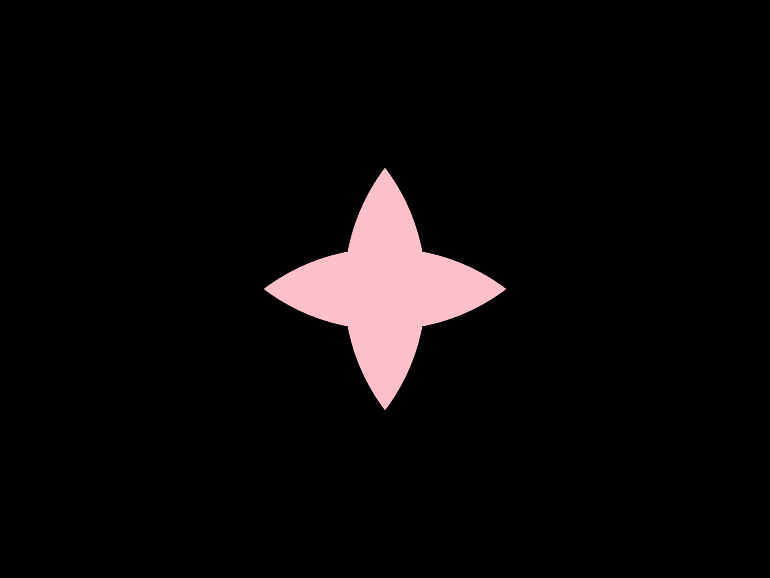
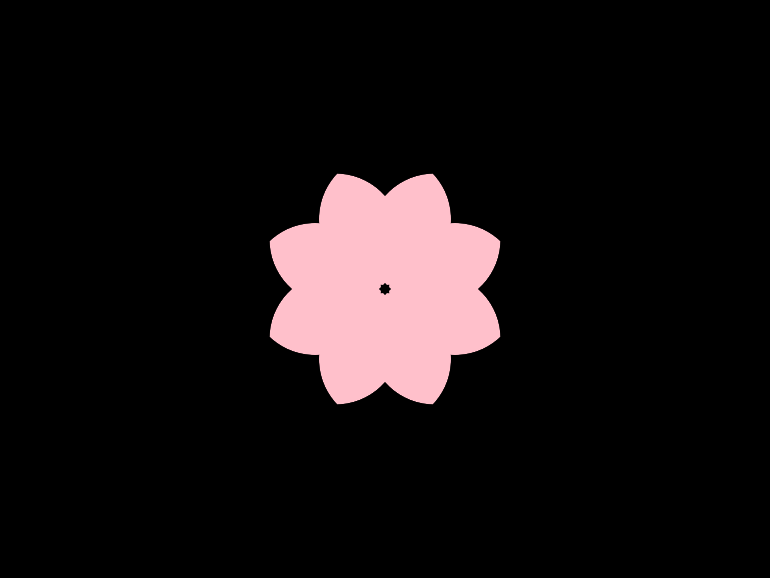
Swap CompoundBuilder examples for CompositionDrawer

Changed region(s): [[0.3429, 0.2803, 0.6545, 0.7163]]

diff --git a/docs/04_Drawing_basics/C05_ComplexShapes.md b/docs/04_Drawing_basics/C05_ComplexShapes.md
@@ -90,7 +90,7 @@ program {
  
  ## Shape Boolean-operations 
  
- Boolean-operations can be performed on shapes using the `compound {}` builder. There are three kinds
+ Boolean-operations can be performed on shapes using the `drawComposition {}` builder. There are three kinds
 of compounds: _union_, _difference_ and _intersection_, all three of them are shown in the example below.
  
  
@@ -99,69 +99,106 @@ of compounds: _union_, _difference_ and _intersection_, all three of them are sh
  ```kotlin
 program {
     extend {
-        drawer.fill = ColorRGBa.PINK
-        drawer.stroke = null
-        // -- shape union
-        val su = compound {
-            union {
-                shape(Circle(185.0, height / 2.0 - 80.0, 100.0).shape)
-                shape(Circle(185.0, height / 2.0 + 80.0, 100.0).shape)
-            }
+        val composition = drawComposition {
+            fill = ColorRGBa.PINK
+            stroke = null
+            // -- shape union
+            shape(union(
+                Circle(185.0, height / 2.0 - 80.0, 100.0).shape,
+                Circle(185.0, height / 2.0 + 80.0, 100.0).shape
+            ))
+
+            // -- shape difference
+            shape(difference(
+                Circle(385.0, height / 2.0 - 80.0, 100.0).shape,
+                Circle(385.0, height / 2.0 + 80.0, 100.0).shape
+            ))
+
+            // -- shape intersection
+            shape(intersection(
+                Circle(585.0, height / 2.0 - 80.0, 100.0).shape,
+                Circle(585.0, height / 2.0 + 80.0, 100.0).shape
+            ))
         }
-        drawer.shapes(su)
-        
-        // -- shape difference
-        val sd = compound {
-            difference {
-                shape(Circle(385.0, height / 2.0 - 80.0, 100.0).shape)
-                shape(Circle(385.0, height / 2.0 + 80.0, 100.0).shape)
-            }
-        }
-        drawer.shapes(sd)
-        
-        // -- shape intersection
-        val si = compound {
-            intersection {
-                shape(Circle(585.0, height / 2.0 - 80.0, 100.0).shape)
-                shape(Circle(585.0, height / 2.0 + 80.0, 100.0).shape)
-            }
-        }
-        drawer.shapes(si)
+
+        drawer.composition(composition)
     }
 }
 ``` 
  
  [Link to the full example](https://github.com/openrndr/openrndr-examples/blob/master/src/main/kotlin/examples/04_Drawing_basics/C05_ComplexShapes002.kt) 
  
- The _compound builder_ is actually a bit more clever than what the previous example demonstrated because
-it can actually work with an entire tree of compounds. Demonstrated below is the _union_ of two _intersections_. 
+ The _composition drawer_ is actually a bit more clever than what the previous example demonstrated because
+it can actually work with an entire lists of shapes. Demonstrated below is the _union_ of two _intersections_. 
  
  <img src="media/shapes-004.png"/> 
  
  ```kotlin
 program {
     extend {
-        drawer.fill = ColorRGBa.PINK
-        drawer.stroke = null
-        val cross = compound {
-            union {
-                intersection {
-                    shape(Circle(width / 2.0 - 160.0, height / 2.0, 200.0).shape)
-                    shape(Circle(width / 2.0 + 160.0, height / 2.0, 200.0).shape)
-                }
-                intersection {
-                    shape(Circle(width / 2.0, height / 2.0 - 160.0, 200.0).shape)
-                    shape(Circle(width / 2.0, height / 2.0 + 160.0, 200.0).shape)
-                }
+        val drawingCenter = Vector2(width * 0.5, height * 0.5)
+        val cross = drawComposition {
+            fill = ColorRGBa.PINK
+            stroke = null
+
+            val flower = (0 until 360 step 45).map { degrees ->
+                val center1 = drawingCenter +
+                        Vector2(cos(toRadians(degrees.toDouble())), sin(toRadians(degrees.toDouble()))) * 70.0
+                val center2 = drawingCenter +
+                        Vector2(cos(toRadians(degrees - 45.0)), sin(toRadians(degrees - 45.0))) * 70.0
+                intersection(
+                        Circle(center1, 65.0).shape,
+                        Circle(center2, 65.0).shape
+                )
             }
+            shapes(flower)
         }
-        drawer.shapes(cross)
+
+        drawer.composition(cross)
     }
 }
 ``` 
  
- [Link to the full example](https://github.com/openrndr/openrndr-examples/blob/master/src/main/kotlin/examples/04_Drawing_basics/C05_ComplexShapes003.kt) 
+[Link to the full example](https://github.com/openrndr/openrndr-examples/blob/master/src/main/kotlin/examples/04_Drawing_basics/C05_ComplexShapes003.kt) 
  
+ 
+ `ShapeContour`s can be used in conjunction with `Shape`s to create complex clipping patterns.
+ Demonstrated below is the _intersection_ of multiple `contours` and a `Circle`. 
+  
+<img src="media/shapes-007.png"/> 
+  
+```kotlin
+program {
+    val center = Vector2(width * 0.5, height * 0.5)
+    val circle = Circle(center, 200.0)
+    val sineWaves = drawComposition {
+        val sine = { x: Double, y: Double -> Vector2(x, y + sin(x / 50.0) * 10.0) }
+        stroke = ColorRGBa.PINK
+        strokeWeight = 4.0
+        for (y in -50..height step 20) {
+            val cs = contours {
+                moveTo(sine(0.0, y.toDouble()))
+                for (x in 0..width step 10) {
+                    if (random() < -0.5) {
+                        moveTo(sine(x.toDouble(), cursor.y))
+                    } else {
+                        lineTo(sine(x.toDouble(), cursor.y))
+                    }
+                }
+            }
+            cs.forEach { shape(intersection(it, circle.shape)) }
+        }
+        shape(circle.shape)
+    }
+    extend {
+        drawer.lineCap = LineCap.ROUND
+        drawer.composition(sineWaves)
+    }
+}
+``` 
+  
+[Link to the full example](https://github.com/openrndr/openrndr-examples/blob/master/src/main/kotlin/examples/04_Drawing_basics/C05_ComplexShapes008.kt)
+
  ## Cutting contours 
  
  A contour be cut into a shorter contour using `ShapeContour.sub()`. 
